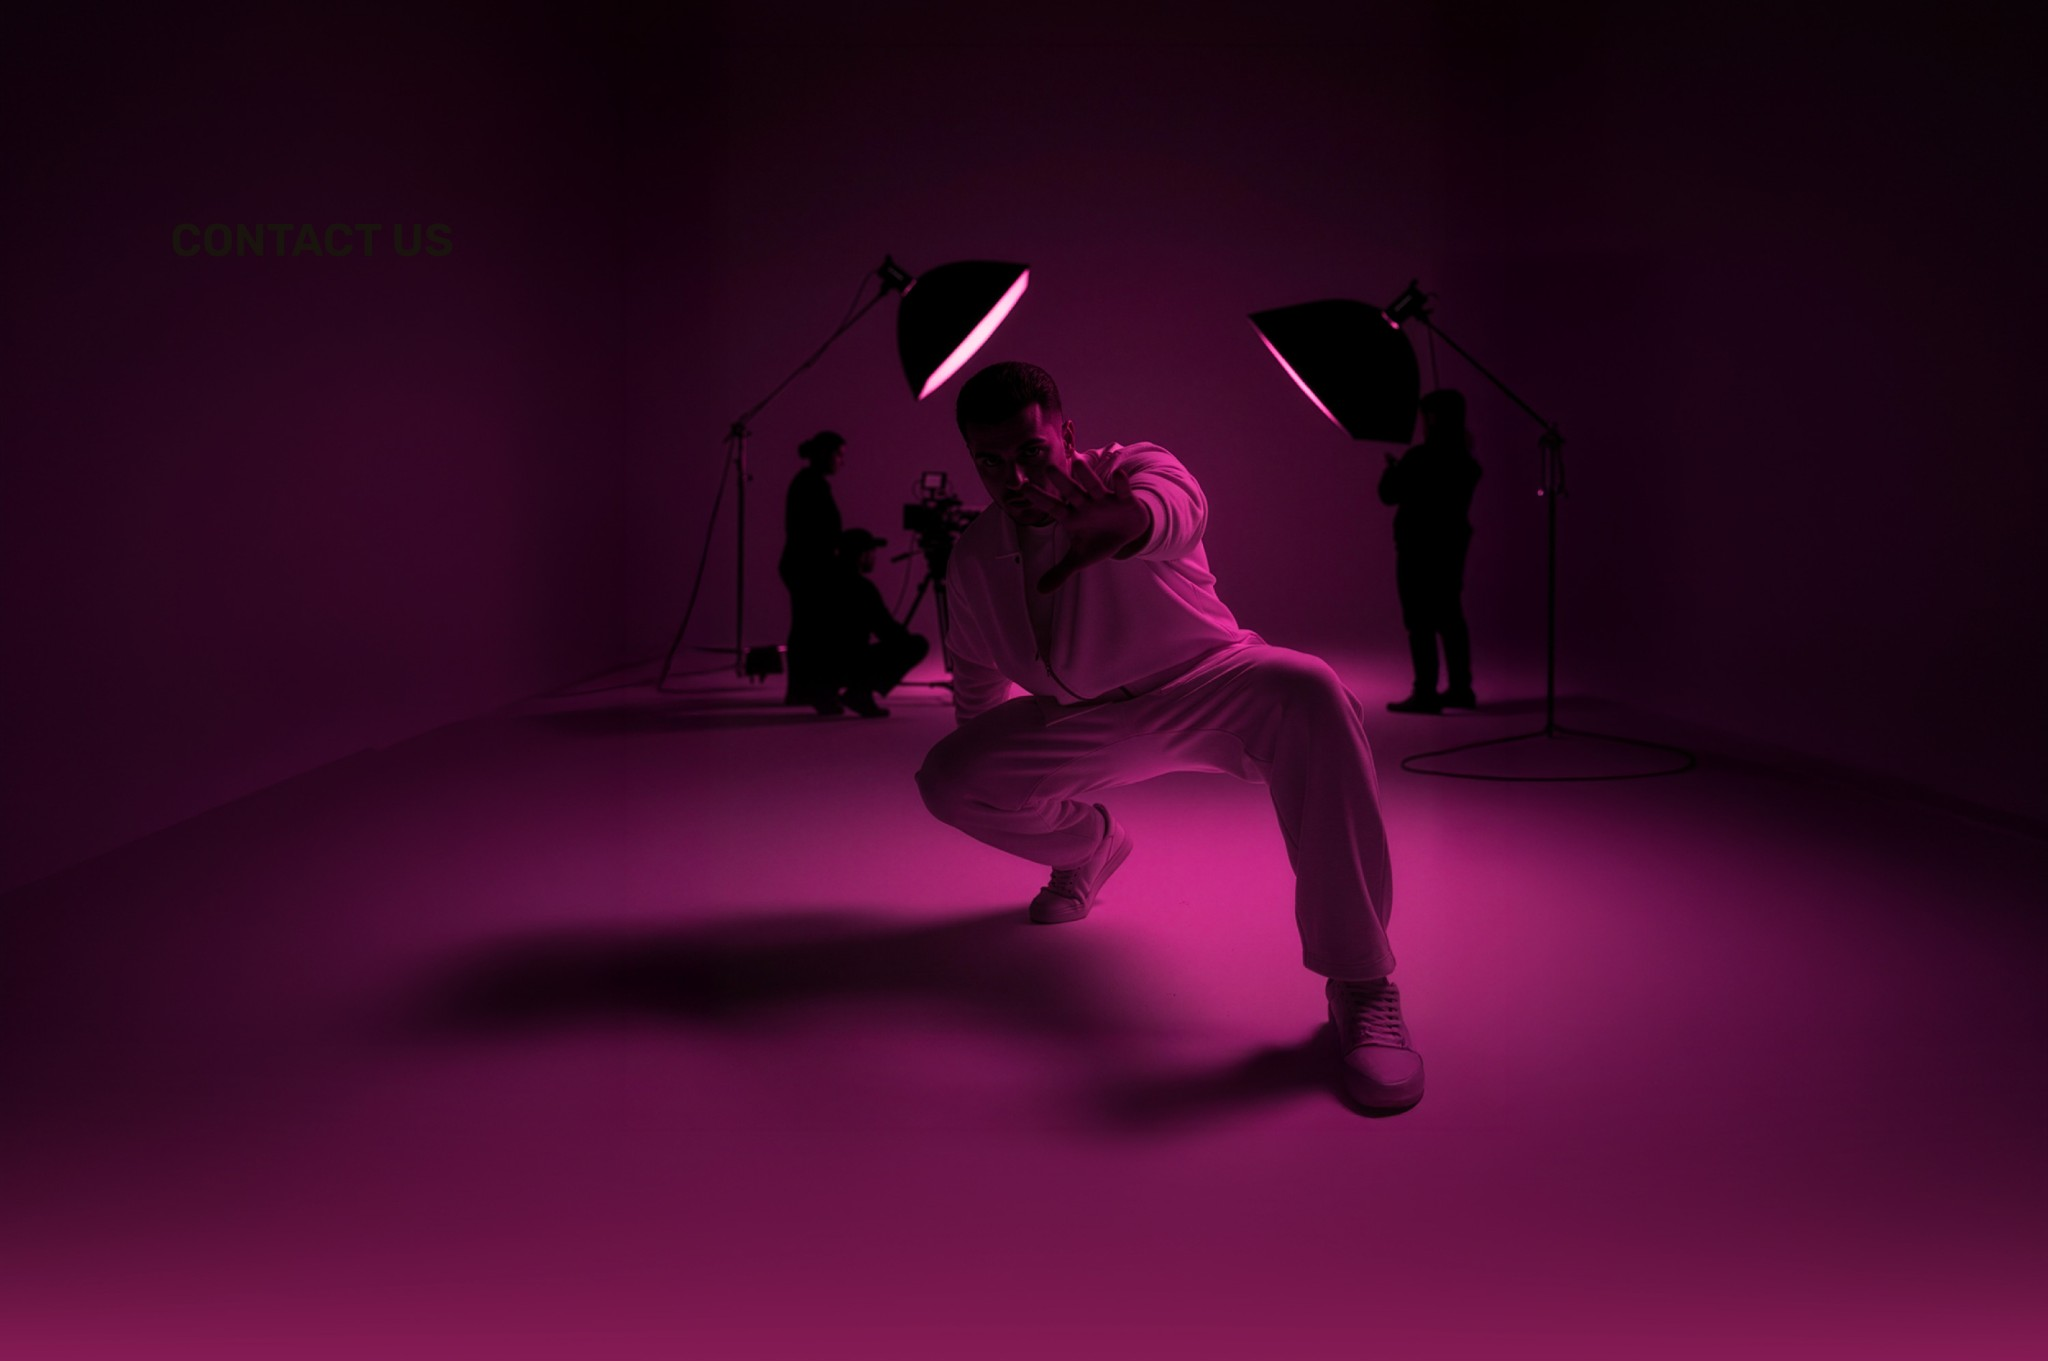
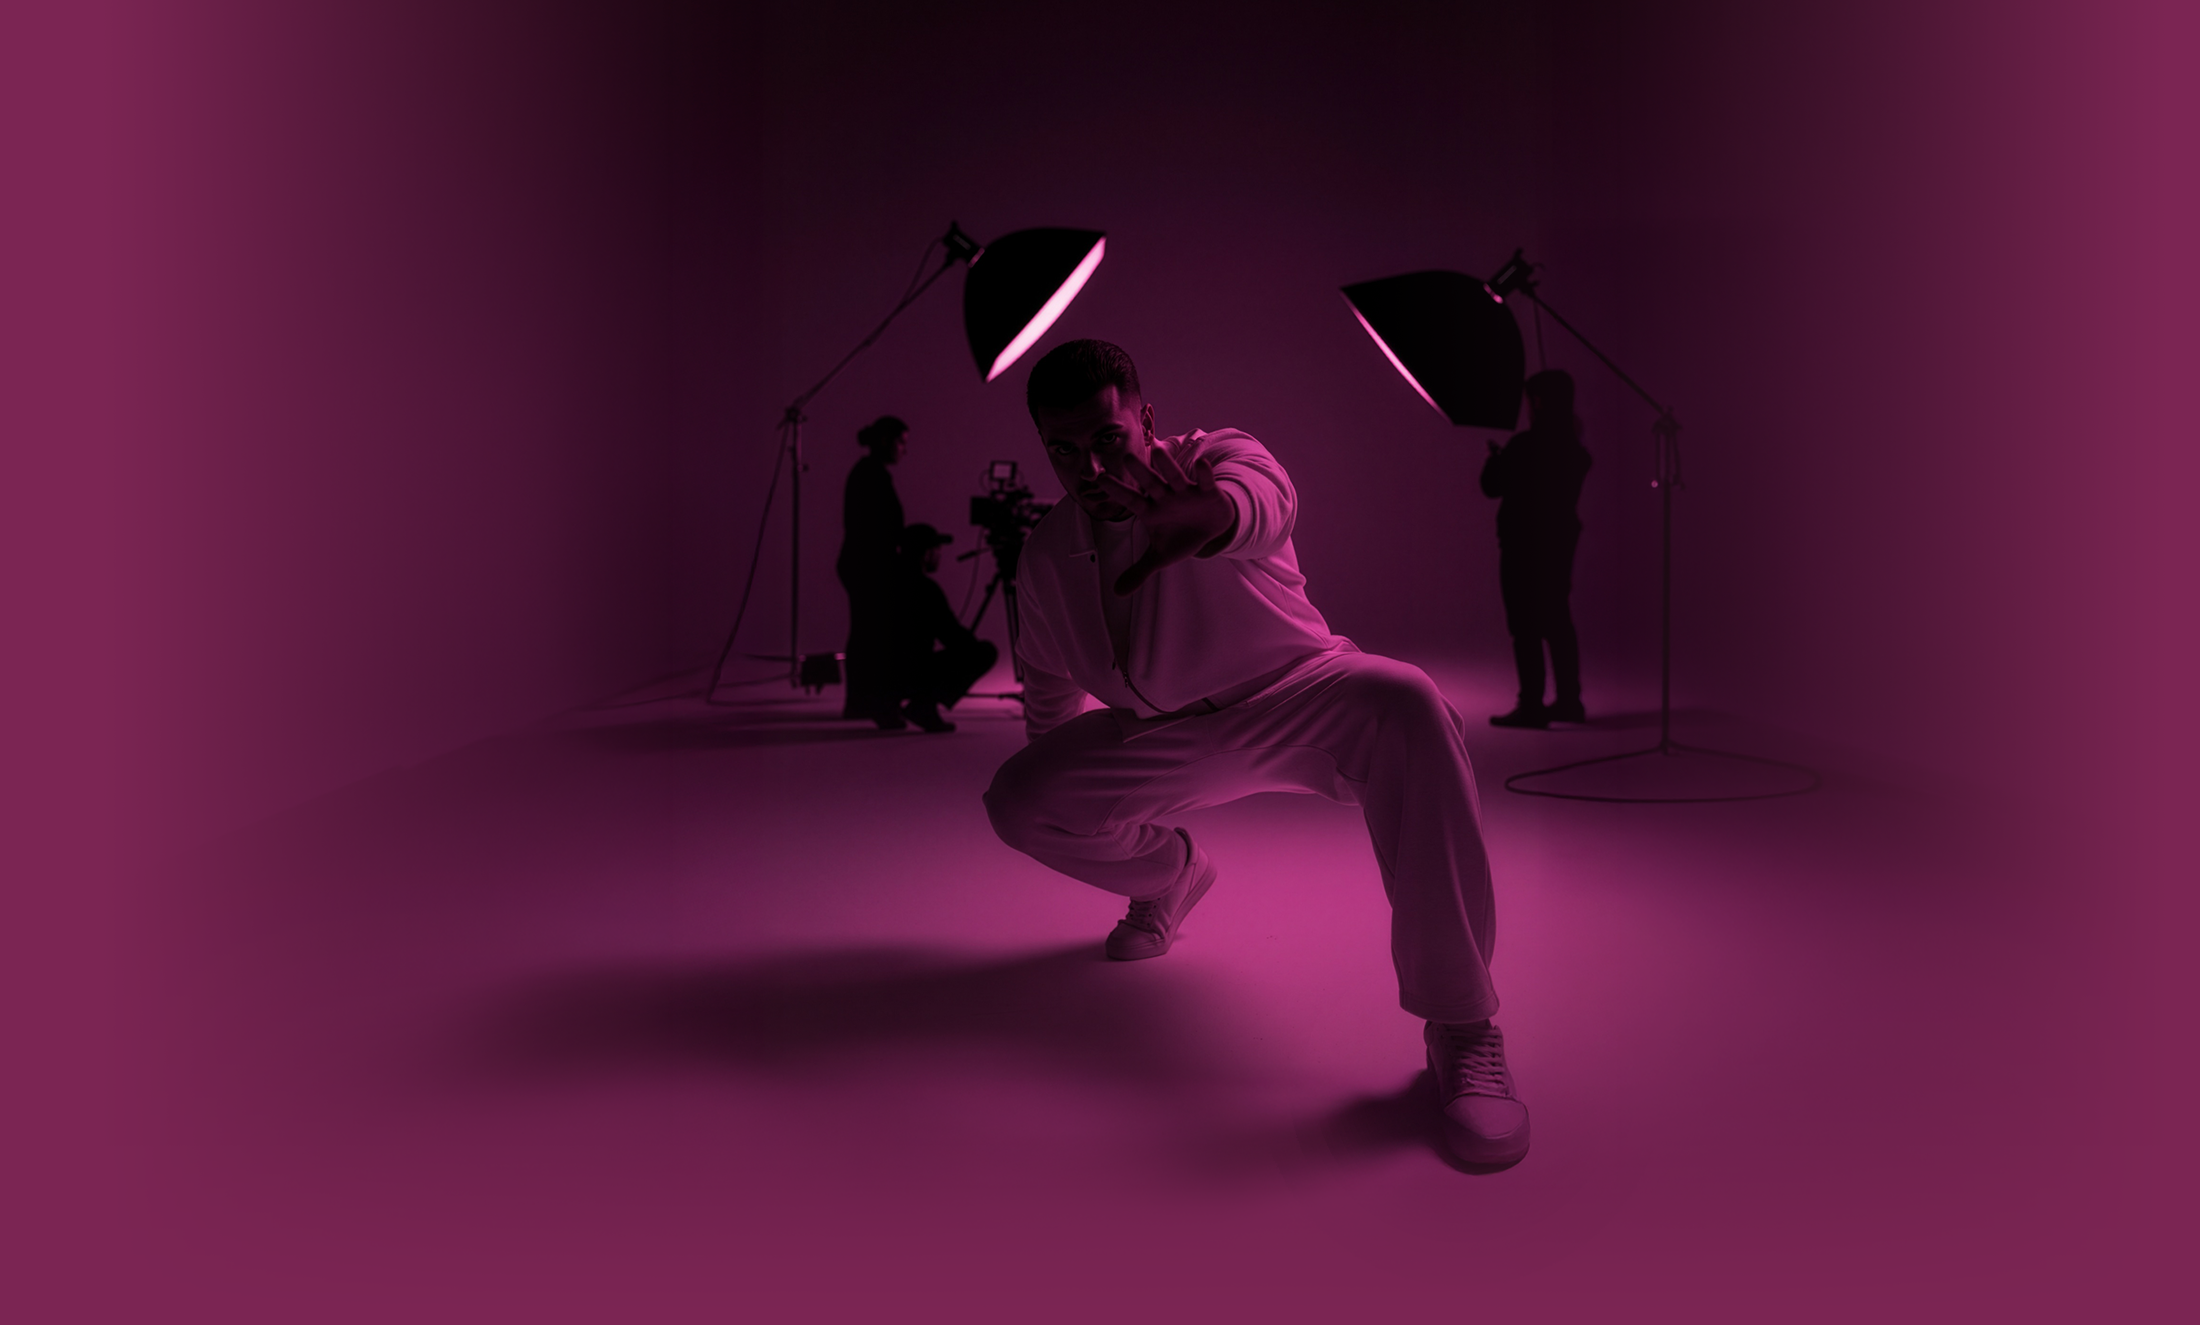
Fix other pages tooo

diff --git a/src/components/sections/contact/ContactHero.tsx b/src/components/sections/contact/ContactHero.tsx
@@ -6,40 +6,39 @@ const rubik = Rubik({ weight: ["600", "700"], subsets: ["latin"] });
 export default function ContactHero() {
   return (
     <section
-      className="relative w-full min-w-0 overflow-hidden flex justify-center"
+      className="relative w-full min-w-0 overflow-hidden"
       aria-label="Contact Scribble"
     >
-      <div className="relative w-full max-w-[1920px] aspect-[3/2] min-h-[360px] sm:min-h-[480px] md:min-h-[560px] lg:min-h-[640px]">
-      {/* Main image — natural aspect ratio, no cropping; displays at full width × proportional height */}
-      <Image
-        src="/assets/contact-main.png"
-        alt="Scribble studio — creative team and production environment"
-        fill
-        className="object-cover object-center"
-        sizes="100vw"
-        priority
-        unoptimized
-      />
+      <div className="relative w-full max-w-[1920px] mx-auto aspect-[3/2] min-h-[360px] sm:min-h-[480px] md:min-h-[560px] lg:min-h-[640px] shadow-none">
+        <Image
+          src="/assets/contact-main.png"
+          alt="Scribble studio — creative team and production environment"
+          fill
+          className="object-cover object-center shadow-none"
+          sizes="100vw"
+          priority
+          unoptimized
+        />
 
-      {/* Text overlay — lower-left of the image */}
-      <div
-        className="absolute inset-0 pl-[calc(5%+60px)] pr-4 pb-[200px] pointer-events-none flex flex-col justify-end text-left max-w-2xl"
-        aria-hidden
-      >
-        <h1
-          className={`${rubik.className} text-[#FFF] font-semibold uppercase tracking-tight`}
-          style={{
-            fontSize: "53.294px",
-            lineHeight: "normal",
-          }}
+        <div
+          className="absolute inset-0 pl-[calc(5%+60px)] min-[1920px]:pl-[156px] pr-4 pb-[200px] pointer-events-none flex flex-col justify-end text-left max-w-2xl"
+          aria-hidden
         >
-          LET&apos;S REACH
-          <br />
-          YOUR TARGET
-          <br />
-          <span className="whitespace-nowrap">AUDIENCE TOGETHER</span>
-        </h1>
-      </div>
+          <h1
+            className={`${rubik.className} text-[#FFF] font-semibold uppercase tracking-tight`}
+            style={{
+              fontSize: "clamp(28px, 6vw, 48px)",
+              fontWeight: 500,
+              lineHeight: "1.2",
+            }}
+          >
+            LET&apos;S REACH
+            <br />
+            YOUR TARGET
+            <br />
+            <span className="whitespace-nowrap">AUDIENCE TOGETHER</span>
+          </h1>
+        </div>
       </div>
     </section>
   );

diff --git a/src/components/sections/jobs/JobsHero.tsx b/src/components/sections/jobs/JobsHero.tsx
@@ -6,12 +6,12 @@ const rubik = Rubik({ weight: "600", subsets: ["latin"] });
 export default function JobsHero() {
   return (
     <section
-      className="relative w-full min-w-0 overflow-hidden flex justify-center"
+      className="relative w-full min-w-0 overflow-hidden bg-[#7B2553]"
       aria-label="Jobs at Scribble"
     >
-      <div className="relative w-full max-w-[1920px] aspect-[16/10] min-h-[320px] sm:min-h-[400px] md:min-h-[480px] overflow-hidden">
+      <div className="relative w-full aspect-[16/10] min-h-[320px] sm:min-h-[400px] md:min-h-[480px] overflow-hidden">
         <Image
-          src="/assets/jobs-main.jpg"
+          src="/assets/jobs-main.png"
           alt="Join our team — modern creative studio at Scribble"
           fill
           className="object-cover object-center"
@@ -19,27 +19,18 @@ export default function JobsHero() {
           priority
           unoptimized
         />
-        <div
-          className="absolute inset-x-0 bottom-0 h-1/3 pointer-events-none"
-          style={{
-            background:
-              "linear-gradient(to top, #404040 0%, rgba(64, 64, 64, 0.5) 50%, transparent 100%)",
-          }}
-          aria-hidden
-        />
-        <div className="absolute inset-0 bg-gradient-to-t from-black/40 via-transparent to-transparent pointer-events-none" />
 
         {/* Bottom-left text overlay */}
         <div
-          className="absolute left-0 bottom-0 p-4 pointer-events-none ml-[14%] flex flex-col justify-center mb-40 md:mb-48 w-[40%] max-w-[600px]"
+          className="absolute left-0 bottom-0 p-4 pointer-events-none ml-[8%] flex flex-col justify-center mb-40 md:mb-48 w-[40%] max-w-[600px]"
           aria-hidden
         >
           <h1
             className={`${rubik.className} text-white uppercase leading-tight`}
             style={{
-              fontSize: "clamp(28px, 6vw, 53.294px)",
-              fontWeight: 600,
-              lineHeight: "normal",
+              fontSize: "clamp(28px, 6vw, 48px)",
+              fontWeight: 500,
+              lineHeight: "1.2",
             }}
           >
             JOBS
@@ -47,8 +38,8 @@ export default function JobsHero() {
           <p
             className={`${rubik.className} text-white mt-4 leading-tight`}
             style={{
-              fontSize: "clamp(16px, 2.5vw, 24px)",
-              fontWeight: 600,
+              fontSize: "24px",
+              fontWeight: 300,
               lineHeight: "normal",
             }}
           >

diff --git a/src/components/sections/contact/ContactFormSection.tsx b/src/components/sections/contact/ContactFormSection.tsx
@@ -1,6 +1,5 @@
 "use client";
 
-import Image from "next/image";
 import { Rubik } from "next/font/google";
 import { useState } from "react";
 
@@ -100,13 +99,13 @@ export default function ContactFormSection() {
       className="relative w-full min-w-0 overflow-x-visible overflow-y-visible bg-primary"
       aria-label="Contact information and form"
     >
-      <div className="w-full max-w-[1440px] mx-auto mt-10 md:mt-14 lg:mt-16 pl-[calc(5%+60px)] pr-4 pt-0 pb-12 md:pb-16 lg:pb-20">
+      <div className="w-full max-w-[1920px] mx-auto mt-10 md:mt-14 lg:mt-16 pl-[calc(5%+60px)] min-[1920px]:pl-[156px] pr-4 pt-0 pb-12 md:pb-16 lg:pb-20">
         <div className="grid grid-cols-1 lg:grid-cols-2 gap-10 lg:gap-x-8 lg:gap-y-12 items-center">
           {/* First half: logo, contact info, form */}
           <div className="flex flex-col gap-10 md:gap-14 lg:gap-16 min-w-0 lg:min-w-0">
             {/* Row: Logo on left, company info on the right — single line, no wrap */}
             <div className="flex flex-nowrap items-center gap-6 md:gap-8 min-w-0">
-              <ScribbleLogo className="shrink-0 w-[16.51vw] h-[8.19vw]" />
+              <ScribbleLogo className="shrink-0 w-[200px] h-[99px] sm:w-[238px] sm:h-[118px]" />
               <div
                 className={`flex flex-col gap-1 text-[#FFF] uppercase tracking-wide md:ml-auto shrink-0 min-w-[320px] lg:min-w-[380px] ml-6 lg:ml-10 ${rubik.className}`}
               >
@@ -196,14 +195,13 @@ export default function ContactFormSection() {
           </div>
 
           {/* Second half: illustration */}
-          <div className="relative flex justify-center items-end min-h-[280px] pt-8 lg:pt-16">
-            <Image
+          <div className="relative flex justify-center items-end min-h-[450px] pt-[50px]">
+            <img
               src="/assets/contact-illustration.png"
               alt="Scribble — creative energy and connection"
-              width={340}
-              height={280}
-              className="object-contain w-[340px] h-[280px]"
-              sizes="340px"
+              width={350}
+              height={450}
+              className="object-contain w-[350px] h-[450px]"
             />
           </div>
         </div>

diff --git a/src/components/sections/services/ServicesPartsSection.tsx b/src/components/sections/services/ServicesPartsSection.tsx
@@ -30,7 +30,6 @@ function PartBlock({ part }: { part: ServicesPart }) {
   const hasImage = Boolean(part.imageSrc);
   const fullWidth = Boolean(part.fullWidth);
   const boxMinHeightPx = part.boxMinHeightPx ?? 260;
-  const isProductionPhotography = part.id === "production-photography";
   const textBox = (
     <div
       className={`flex flex-col justify-center shrink-0 ${
@@ -38,21 +37,16 @@ function PartBlock({ part }: { part: ServicesPart }) {
       }`}
     >
       <div
-        className="rounded-[8px] p-[0.893px] shadow-lg w-full overflow-auto my-6 lg:my-8"
+        className="rounded-2xl p-[1px] w-full overflow-visible my-6 lg:my-8"
         style={{
           minHeight: `${boxMinHeightPx}px`,
-          backgroundImage:
-            "linear-gradient(to right, transparent 748px, #D17F64 748px), linear-gradient(to right, #469098 0%, #D17F64 100%)",
-          backgroundSize: "1500px 100%, 748px 100%",
-          backgroundPosition: "0 0, 0 0",
-          backgroundRepeat: "no-repeat, no-repeat",
+          background: "linear-gradient(90deg, #469098 0%, #D17F64 100%)",
         }}
       >
         <div
-          className="rounded-[7.1px] py-6 px-6 sm:py-8 sm:px-8 w-full overflow-auto"
+          className="rounded-[15px] py-6 px-6 sm:py-8 sm:px-8 w-full overflow-auto bg-[#7B2553] hover:bg-[#4F1A39] transition-colors duration-200"
           style={{
             minHeight: `${boxMinHeightPx - 2}px`,
-            backgroundColor: isProductionPhotography ? "#4F1A39" : "#7B2553",
           }}
         >
           <h2

diff --git a/src/components/sections/services/ServicesHero.tsx b/src/components/sections/services/ServicesHero.tsx
@@ -8,7 +8,7 @@ export default function ServicesHero() {
     >
       <div className="relative w-full max-w-[1920px] aspect-[16/10] min-h-[320px] sm:min-h-[400px] md:min-h-[480px]">
         <Image
-          src="/assets/services-hero.jpg"
+          src="/assets/services-hero.png"
           alt="Creative studio — professional photography and media production at Scribble"
           fill
           className="object-cover"
@@ -17,16 +17,6 @@ export default function ServicesHero() {
           priority
           unoptimized
         />
-        {/* Bottom gradient: fade into primary so content container merges smoothly */}
-        <div
-          className="absolute inset-x-0 bottom-0 h-2/5 pointer-events-none"
-          style={{
-            background:
-              "linear-gradient(to top, #7B2553 0%, rgba(123, 37, 83, 0.85) 20%, rgba(85, 58, 74, 0.5) 50%, transparent 100%)",
-          }}
-          aria-hidden
-        />
-        <div className="absolute inset-0 bg-gradient-to-t from-black/40 via-transparent to-transparent pointer-events-none" />
       </div>
     </section>
   );

diff --git a/src/components/sections/jobs/JobsListSection.tsx b/src/components/sections/jobs/JobsListSection.tsx
@@ -35,9 +35,10 @@ export default function JobsListSection({ jobs }: JobsListSectionProps) {
       className="py-16 md:py-24 bg-white min-h-0"
       aria-label="Available positions"
     >
-      <div className="max-w-[1440px] mx-auto w-full grid grid-cols-1 lg:grid-cols-[1.35fr_0.65fr] min-h-0">
+      <div className="max-w-[1920px] mx-auto w-full pl-[8%] pr-[8%]">
+        <div className="max-w-[1440px] grid grid-cols-1 lg:grid-cols-[1.35fr_0.65fr] min-h-0">
       {/* Left half: jobs list */}
-      <div className="max-w-4xl ml-[100px] flex flex-col gap-12 md:gap-16 pr-6 md:pr-10">
+      <div className="max-w-4xl flex flex-col gap-12 md:gap-16 pr-6 md:pr-10">
         {jobs.map((job) => (
           <article
             key={job.id}
@@ -99,6 +100,7 @@ export default function JobsListSection({ jobs }: JobsListSectionProps) {
           sizes="(max-width: 1023px) 80vw, 340px"
         />
       </div>
+        </div>
       </div>
     </section>
   );

diff --git a/src/components/sections/ServicesSection.tsx b/src/components/sections/ServicesSection.tsx
@@ -85,8 +85,7 @@ export default function ServicesSection() {
                     transition={{ type: "spring", stiffness: 220, damping: 18 }}
                     className="rounded-2xl p-[1px]"
                     style={{
-                      background:
-                          "linear-gradient(90deg, #469098 -0.12%, #D17F64 100.12%)",
+                      background: "linear-gradient(90deg, #469098 0%, #D17F64 100%)",
                     }}
                 >
                   <article
@@ -94,7 +93,7 @@ export default function ServicesSection() {
                   bg-[#7B2553]
                   hover:bg-[#4F1A39]
                   transition-colors duration-200
-                  rounded-2xl
+                  rounded-[15px]
                   px-8
                   py-10
                   h-[240px]

diff --git a/src/app/(main)/jobs/page.tsx b/src/app/(main)/jobs/page.tsx
@@ -12,7 +12,9 @@ export default async function JobsPage() {
   const jobsList = await getJobs();
   return (
     <main className="flex flex-col w-full min-w-0 max-w-full overflow-x-hidden min-h-screen">
-      <JobsHero />
+      <div className="w-full max-w-[1920px] mx-auto">
+        <JobsHero />
+      </div>
       <JobsListSection jobs={jobsList} />
     </main>
   );
